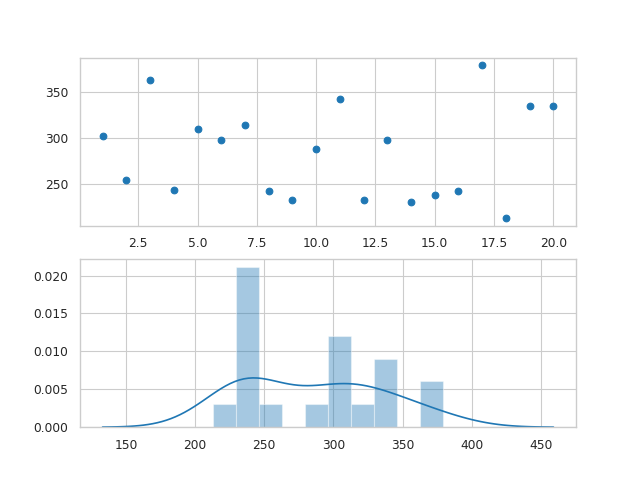
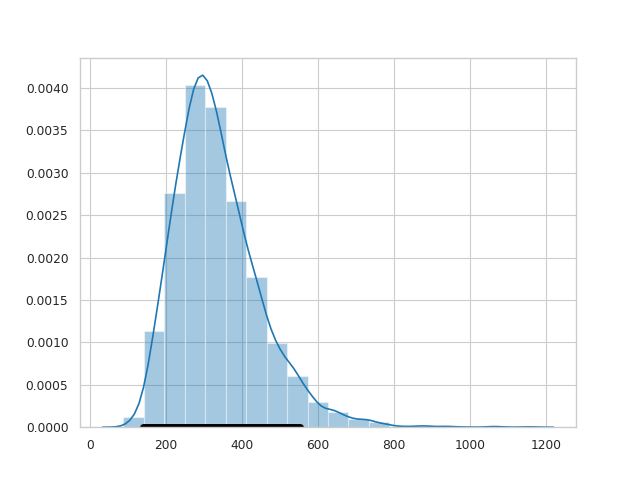
Finalized the assignment

diff --git a/05-assignment/A-task.py b/05-assignment/A-task.py
@@ -44,20 +44,27 @@ def point_1(data):
 def point_2(fit, summary, fit_model):
     num_posterior_samples = (fit.sim['iter'] - fit.sim['warmup']) * fit.sim['chains']
     #random_new_person_index = np.random.randint(num_posterior_samples)
-    new_person_mu = fit.extract('mu')['mu'][np.random.randint(num_posterior_samples)]
-    new_person_tau = fit.extract('tau')['tau'][np.random.randint(num_posterior_samples)]
-    new_person_sigma = fit.extract('sigma')['sigma'][np.random.randint(num_posterior_samples)]
 
-    new_person_theta = np.random.normal(new_person_mu, new_person_tau)
+    num_new_people = 10000
+    random_person_samples = np.zeros((num_new_people, ))
+    for i in range(num_new_people):
+        new_person_mu = fit.extract('mu')['mu'][np.random.randint(num_posterior_samples)]
+        new_person_tau = fit.extract('tau')['tau'][np.random.randint(num_posterior_samples)]
+        new_person_sigma = fit.extract('sigma')['sigma'][np.random.randint(num_posterior_samples)]
 
-    num_new_samples = 20
-    sample_log_reaction_times = np.random.normal(new_person_theta, new_person_sigma, (num_new_samples, ))
-    sample_reaction_times = np.exp(sample_log_reaction_times)
+        new_person_theta = np.random.normal(new_person_mu, new_person_tau)
+        sample_log_reaction_times = np.random.normal(new_person_theta, new_person_sigma, (1, ))
+        #sample_reaction_times = np.exp(sample_log_reaction_times)
+        random_person_samples[i] = np.exp(sample_log_reaction_times)
 
-    plt.subplot(2, 1, 1)
-    plt.scatter(np.arange(num_new_samples)+1, sample_reaction_times)
-    plt.subplot(2, 1, 2)
-    sns.distplot(sample_reaction_times, bins=10, norm_hist=True)
+    random_person_hdi = hdi(random_person_samples, 0.95)
+    print(f'Expected value of randomly drawn people: {np.mean(random_person_samples):.2f}')
+    print(f'HDI of randomly drawn people samples: {random_person_hdi}')
+
+
+    plt.figure()
+    sns.distplot(random_person_samples, bins=20, norm_hist=True)
+    plt.plot(random_person_hdi, [0, 0], 'k', linewidth=5)
     plt.savefig('05-assignment/point_2.png')
 
 def point_3(fit, summary, fit_model, data):
@@ -69,8 +76,26 @@ def point_3(fit, summary, fit_model, data):
 
     print(f'Bayesian group mean:\t\t {group_bayesian_mean:.2f}')
     print(f'Frequentist group mean:\t\t {group_frequentist_mean:.2f}')
-    print(f'Difference of group means:\t {group_bayesian_mean - group_frequentist_mean:.2f}')
-    print(f'Individual bayesian means smaller than individual frequentist means:\n\t\t{np.sum(bayesian_mean[:, np.newaxis] - frequentist_mean < 0)}/{bayesian_mean.shape[0]}')
+    #print(f'Difference of group means:\t {group_bayesian_mean - group_frequentist_mean:.2f}')
+    #print(f'Individual bayesian means smaller than individual frequentist means:\n\t\t{np.sum(bayesian_mean[:, np.newaxis] - frequentist_mean < 0)}/{bayesian_mean.shape[0]}')
+
+    print(frequentist_mean)
+    print(bayesian_mean)
+    plt.figure()
+    plt.plot([group_bayesian_mean, group_bayesian_mean], [0, 34], '--k')
+    for user, (user_bayesian_mean, user_frequentist_mean) in enumerate(zip(bayesian_mean, frequentist_mean)):
+        plt.plot([user_bayesian_mean, user_bayesian_mean], [user, user+1], 'k')
+        plt.plot([user_frequentist_mean, user_frequentist_mean], [user, user+1], ':k')
+        if user != 0:
+            plt.plot([200, 650], [user, user], 'k')
+
+    plt.savefig('05-assignment/point_3.png')
+
+    bayesian_distance = np.abs(group_bayesian_mean - bayesian_mean)[:, np.newaxis]
+    print(bayesian_distance.shape)
+    frequentist_distance = np.abs(group_bayesian_mean - frequentist_mean)
+    print(frequentist_distance.shape)
+    print(f'Individual bayesian means closer to the bayesian mean than individual frequentist means:\n\t\t{np.sum(bayesian_distance < frequentist_distance)}/34')
 
 if __name__ == '__main__':
     with open('05-assignment/data.json') as json_file:
